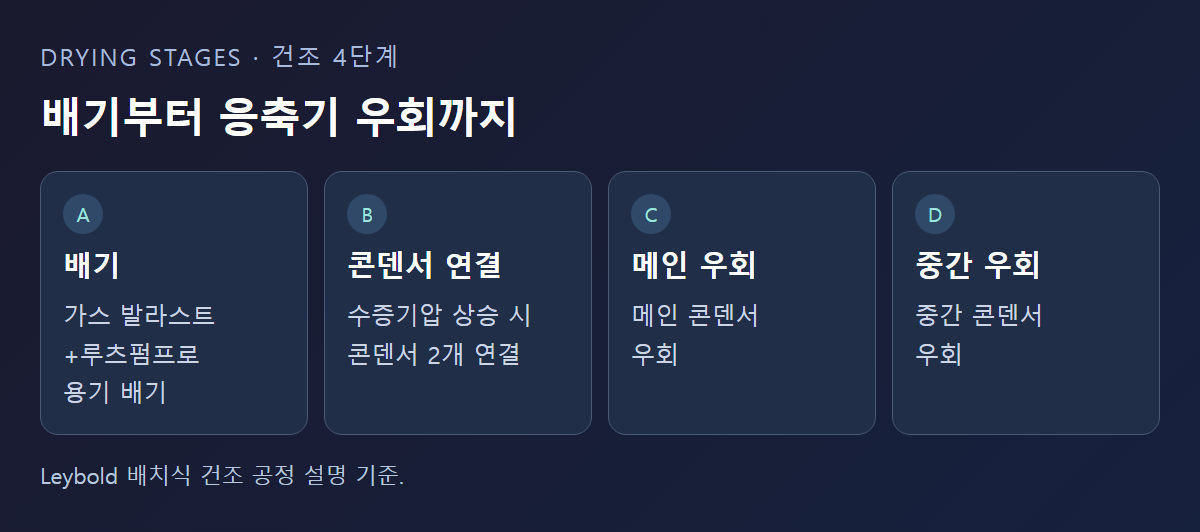
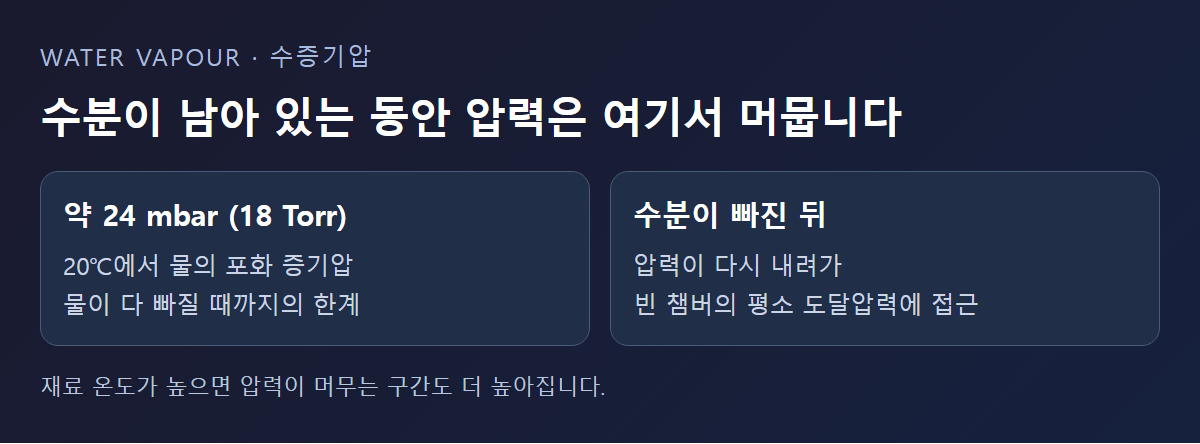
content: 10/22 진공 오븐 글을 Edwards 자료 기준으로 재작성(도식 3장 포함, 미발행)

diff --git a/블로그/output/기술블로그/2026-10/1022-진공오븐-진공도확인/gen_images.py b/블로그/output/기술블로그/2026-10/1022-진공오븐-진공도확인/gen_images.py
@@ -29,24 +29,23 @@ def html(body, extra=""):
     return f'<!doctype html><html lang="ko"><head><meta charset="utf-8"><style>{CSS}{extra}</style></head><body>{body}</body></html>'
 
 STAGES = html("""
-<div id="card"><div class="eyebrow">DRYING STAGES · 건조 4단계</div>
-<h2>배기부터 응축기 우회까지</h2>
-<div class="grid4">
-<div class="box"><div class="n">A</div><h3>배기</h3><p>가스 발라스트+루츠펌프로<br>용기 배기</p></div>
-<div class="box"><div class="n">B</div><h3>콘덴서 연결</h3><p>수증기압 상승 시<br>콘덴서 2개 연결</p></div>
-<div class="box"><div class="n">C</div><h3>메인 우회</h3><p>메인 콘덴서<br>우회</p></div>
-<div class="box"><div class="n">D</div><h3>중간 우회</h3><p>중간 콘덴서<br>우회</p></div>
-</div><div class="note">Leybold 배치식 건조 공정 설명 기준.</div></div>
+<div id="card"><div class="eyebrow">WATER VAPOUR · 수증기압</div>
+<h2>수분이 남아 있는 동안 압력은 여기서 머뭅니다</h2>
+<div class="grid">
+<div class="box"><h3>약 24 mbar (18 Torr)</h3><p>20℃에서 물의 포화 증기압<br>물이 다 빠질 때까지의 한계</p></div>
+<div class="box"><h3>수분이 빠진 뒤</h3><p>압력이 다시 내려가<br>빈 챔버의 평소 도달압력에 접근</p></div>
+</div><div class="note">재료 온도가 높으면 압력이 머무는 구간도 더 높아집니다.</div></div>
 """)
 
 PRESSURE = html("""
-<div id="card"><div class="eyebrow">PRESSURE THRESHOLD · 압력 전환점</div>
-<h2>특정 압력 아래로 떨어지면 구성이 바뀝니다</h2>
-<div class="grid">
-<div class="box"><h3>27 mbar 이하</h3><p>루츠펌프 추가 가동<br>(Leybold 예시)</p></div>
-<div class="box"><h3>약 6.5×10⁻² mbar</h3><p>최종 건조 단계 목표<br>(Leybold 예시)</p></div>
-</div><div class="note">특정 건조 공정 예시 수치이며 모든 설비의 절대 기준은 아닙니다. 로터리베인 펌프 수증기 허용치는 예시 자료 기준 60 mbar.</div></div>
-""")
+<div id="card"><div class="eyebrow">PUMP OPERATION · 펌프 운전</div>
+<h2>수증기를 배기할 때 지킬 세 가지</h2>
+<div class="grid3">
+<div class="box"><div class="n">1</div><h3>미리 데우기</h3><p>흡입구를 닫고 운전<br>보통 최대 60분</p></div>
+<div class="box"><div class="n">2</div><h3>발라스트 열기</h3><p>증기가 지나는 동안<br>계속 열어 둠</p></div>
+<div class="box"><div class="n">3</div><h3>마무리 운전</h3><p>공정 후 흡입구를 막고<br>최소 20~30분</p></div>
+</div><div class="note">오일씰 펌프와 드라이 펌프 모두에 해당합니다.</div></div>
+""", ".grid3 { display:grid; gap:18px; grid-template-columns:repeat(3,1fr); }")
 
 GAUGE = html("""
 <div id="card"><div class="eyebrow">GAUGE LIMIT · 게이지의 한계</div>
@@ -54,7 +53,7 @@ GAUGE = html("""
 <div class="grid">
 <div class="box"><h3>APG200(피라니)</h3><p>측정범위 대기압~5×10⁻⁴ mbar<br>질소 기준 교정</p></div>
 <div class="box"><h3>건조 공정 중</h3><p>수증기 비중이 높아<br>표시값이 실제와 다를 수 있음</p></div>
-</div><div class="note">수증기 전용 보정계수 수치는 확인하지 못했습니다.</div></div>
+</div><div class="note">절댓값이 중요하면 가스 종류와 무관한 정전용량식 게이지를 씁니다.</div></div>
 """)
 
 with sync_playwright() as p:

diff --git a/블로그/output/기술블로그/2026-10/1022-진공오븐-진공도확인/final.md b/블로그/output/기술블로그/2026-10/1022-진공오븐-진공도확인/final.md
@@ -2,56 +2,60 @@
 category: 기술문의
 ---
 
-<!-- 수치검증: A항목 4개 확인(27 mbar·6.5e-2 mbar·60 mbar·0.65 mbar, 모두 Leybold 특정 예시로 명시) / B항목 0개(해당없음) / C항목 1개 확인(APG200=피라니, product_master_table 대조) / D항목 0개(해당없음) / 삭제 1개(수증기 전용 보정계수 수치, 근거 없음) / 교체 0개 -->
+<!-- 수치검증: A항목 4개 확인(물 포화 증기압 약 24 mbar@20℃·워밍업 최대 60분·공정 후 20~30분 운전 = Edwards 자료 2건 / APG200 측정범위 = product_master_table) / B항목 0개(해당없음) / C항목 2개 확인(APG200=피라니, Barocel=정전용량식 — 대표님 취급 확인 10/9) / D항목 0개(해당없음) / 삭제 4개(27 mbar·6.5e-2 mbar·60 mbar·0.65 mbar — 타사 자료 예시, 10/9 출처 규칙) / 교체 0개 -->
 
 # 진공 오븐 건조 공정, 진공도는 어떻게 확인할까
 
-![건조 단계별로 확인하는 압력 기준](./images/thumbnail.png)
+![건조 중 압력이 머무는 구간과 확인 기준](./images/thumbnail.png)
 
-진공 오븐을 돌릴 때 "지금 잘 되고 있는지" 여부를 무엇으로 판단해야 할지 막막할 때가 있다. 온도만 보고 있으면 안이 얼마나 말랐는지 알기 어렵고, 진공도만 보고 있으면 실제로 무엇을 확인하는 건지 헷갈리기 쉽다. 이 글은 Leybold의 공식 자료를 기준으로, 건조 공정에서 진공도가 어떤 의미를 갖고 어떻게 확인해야 하는지를 정리한다.
+진공 오븐을 돌릴 때 "지금 잘 되고 있는지"를 무엇으로 판단해야 할지 막막할 때가 있다. 온도만 보고 있으면 안이 얼마나 말랐는지 알기 어렵고, 진공도만 보고 있으면 그 숫자가 무엇을 뜻하는지 헷갈리기 쉽다. 이 글은 건조 중 진공도가 어떻게 움직이는지, 그 숫자로 무엇을 판단할 수 있는지, 펌프와 게이지는 어떻게 다뤄야 하는지를 차례로 정리한다.
 
-## 건조는 여러 단계로 나뉜다
+## 건조 중에는 압력이 한동안 내려가지 않는다
 
-![배기부터 응축기 전환까지 이어지는 건조 단계](./images/사진1.png)
+![수분이 남아 있는 동안 압력이 머무는 구간](./images/사진1.png)
 
-스마텍이 Leybold 자료(How does the drying process work with a vacuum pump system, https://www.leybold.com/en-us/knowledge/vacuum-fundamentals/vacuum-generation/how-does-the-drying-process-work)를 확인한 결과, 배치식 진공 건조 공정은 네 단계로 나뉜다. 가스 발라스트 펌프와 루츠펌프로 용기를 배기하는 단계, 재료를 가열하며 수증기압이 올라가면 콘덴서(응축기) 두 개를 연결하는 단계, 그다음 메인 콘덴서를 우회하는 단계, 마지막으로 중간 콘덴서를 우회하는 단계다. 수분 함량은 시간이 지날수록 점점 느리게 줄어드는 경향을 보인다.
+젖은 재료를 넣고 배기를 시작하면 압력이 빠르게 떨어지다가 어느 지점에서 멈춘 것처럼 보인다. 펌프가 약해져서가 아니다. 스마텍이 Edwards 자료(Why gas ballast is important on oil sealed rotary vane pumps?, https://www.edwardsvacuum.com/en/knowledge/applications/why-gas-ballast-is-important-on-oil-sealed-rotary-vane-pumps)를 확인한 결과, 물의 포화 증기압은 20℃에서 약 24 mbar(18 Torr)이며, 물이 모두 빠져나갈 때까지는 이 값이 펌프가 도달할 수 있는 가장 낮은 압력으로 확인된다.
 
-## 압력이 특정 값 아래로 떨어지면 펌프 구성이 바뀐다
+증기를 배기하는 동안의 도달압력은 펌프 자체의 성능이 아니라 처리하는 물질의 증기압이 결정한다는 뜻이다. 재료에서 수분이 계속 나오는 동안에는 아무리 좋은 펌프를 달아도 압력이 그 아래로 잘 내려가지 않는다. 오븐을 가열해 재료 온도가 올라가면 물의 증기압도 함께 높아지므로, 압력이 머무는 구간은 상온일 때보다 더 높은 곳에 생긴다.
 
-![수분 압력에 따라 펌프 구성이 전환되는 지점](./images/사진2.png)
+## 그래서 진공도는 건조가 끝났는지를 알려 준다
 
-스마텍이 Leybold 자료(How to select a vacuum pump for drying applications, https://www.leybold.com/en-in/knowledge/vacuum-fundamentals/vacuum-generation/pump-selection-for-drying-process)를 확인한 결과, 한 건조 공정 예시에서는 챔버 내 수분 압력이 27 mbar 아래로 떨어지면 루츠펌프를 추가로 가동하고 최종 건조 단계에서는 약 6.5×10⁻² mbar까지 압력을 더 낮추는 것으로 확인된다. 이 수치는 특정 건조 공정 예시에 나온 값이며, 모든 진공 오븐에 그대로 적용되는 절대 기준은 아니다. 자신의 설비가 어느 압력대에서 어떻게 반응하는지는 실제 운전 이력으로 직접 확인해야 한다.
+압력이 한 구간에 머물러 있다는 것은 재료에서 아직 수분이 나오고 있다는 신호다. 수분이 줄어들면 압력은 다시 내려가기 시작하고, 수분이 거의 다 빠지면 그 오븐과 펌프가 평소 빈 상태에서 도달하던 압력에 가까워진다.
 
-로터리베인(오일) 펌프를 백킹 펌프로 쓸 때는 그 펌프의 수증기 허용치(예시 자료에서는 60 mbar)를 넘지 않도록 앞단의 루츠펌프가 수증기압을 먼저 낮춰줘야 한다. 가스 발라스트를 쓰는 백킹 펌프는 수증기압이 약 0.65 mbar에 이를 때까지 루츠펌프와 함께 배기를 담당한다는 예시도 있다.
+그래서 진공도를 볼 때는 숫자 하나보다 흐름을 본다. 압력이 머물던 구간을 벗어나 다시 내려가기 시작한 시점, 그리고 빈 챔버의 평소 도달압력에 얼마나 가까워졌는지가 건조 진행을 판단하는 기준이 된다. 이 판단을 하려면 빈 챔버를 배기했을 때의 도달압력과 걸린 시간을 미리 한 번 기록해 두어야 한다.
 
-## 최신 드라이펌프는 조금 다르게 대응한다
+## 펌프가 수증기를 감당하게 하려면
 
-최신 드라이(오일 없는) 펌프 기술에서는 순간적으로 펌프의 수증기 허용치를 넘어서도, 그 수분이 펌프 안에서 잠깐 응축됐다가 다시 배출되는 방식으로 처리된다. 이 덕분에 복잡한 압력 조절 장치 없이도 운전할 수 있다는 것이 Leybold의 설명이다.
+![수증기를 배기할 때 지킬 세 가지 운전 순서](./images/사진2.png)
 
-## 진공도는 결국 게이지로 확인한다
+건조 공정에서 펌프는 공기보다 수증기를 훨씬 많이 배기한다. 수증기가 펌프 안에서 물로 응축되면 도달압력을 회복하는 시간이 크게 늘어나고, 오일씰 펌프는 오일이 빠르게 나빠진다. 스마텍이 Edwards 자료(How to pump condensable vapours?, https://www.edwardsvacuum.com/en-us/vacuum-pumps/knowledge/applications/how-to-pump-condensable-vapours)를 확인한 결과, 응축을 막는 운전 순서는 세 가지로 확인된다.
 
-![APG200 피라니 게이지로 압력 구간을 확인하는 방식](./images/사진3.png)
+1. 수증기를 받기 전에 펌프를 정상 운전 온도까지 데운다. 흡입구 밸브를 닫고 돌리면 되며, 보통 최대 60분이 걸린다.
+2. 증기가 펌프를 지나는 동안에는 가스 발라스트를 계속 열어 둔다.
+3. 공정이 끝난 뒤에도 흡입구를 막은 채 최소 20~30분 더 운전해 남은 증기를 내보낸다.
 
-앞서 설명한 27 mbar, 6.5×10⁻² mbar 같은 기준값은 실제로는 게이지 눈금을 직접 읽어 확인한다. 스마텍이 취급하는 저진공 게이지 APG200(피라니 방식, 측정범위 대기압~5×10⁻⁴ mbar)은 이 정도 범위는 충분히 커버한다.
+이 순서는 오일씰 펌프와 드라이 펌프 모두에 해당한다. 가스 발라스트를 오래 열어 두는 오일씰 펌프라면 배기 쪽으로 넘어가는 오일을 오일 박스로 되돌려 주는 부속을 함께 다는 것이 좋다.
 
-다만 앞서 다룬 "수소 설비 진공게이지" 글에서 설명했듯, 피라니 게이지는 가스 종류에 따라 표시값이 달라지는 방식이다. 건조 공정 중에는 챔버 안 수증기 비중이 높아지므로, 질소 기준으로 교정된 게이지가 실제 수증기압을 그대로 정확히 보여주지 못할 수 있다는 점도 감안해야 한다. 수증기 전용 보정계수 수치는 이번 조사에서 확인하지 못했다.
+## 진공도는 게이지로 확인한다
 
-## 압력계만으로 판단하기 애매할 때
+![피라니 게이지로 건조 압력을 읽을 때의 한계](./images/사진3.png)
 
-장시간 진행하는 건조 공정에서는 응축수 수집기를 콘덴서에서 차단해 두는 방법도 쓰인다. 이렇게 하면 냉각관에 남아 있던 응축막만 다시 증발하게 되는데, 이 재증발은 가스 발라스트 펌프 크기에 따라 30~60분 안에 끝난다는 것이 Leybold의 설명이다. 이는 압력계만으로 건조 완료 여부를 판단하기 애매할 때 참고할 수 있는 보조적인 시간 기준이며, 모든 설비에 그대로 적용되는 고정값은 아니다.
+건조 중 압력은 게이지 눈금으로 읽는다. 스마텍이 취급하는 저진공 게이지 APG200(피라니 방식, 측정범위 대기압~5×10⁻⁴ mbar)은 건조 공정에서 보는 압력 범위를 충분히 덮는다.
 
-게이지를 챔버 어디에 다는지도 결과에 영향을 준다. 배기구 바로 앞에 달면 실제 챔버 안 압력보다 낮게 표시될 수 있고, 재료에서 먼 위치에 달면 국소적으로 압력이 높은 지점을 놓칠 수 있다. 여러 지점에 게이지를 달아 비교하기 어려운 소형 오븐이라면, 최소한 게이지 위치를 매번 동일하게 유지해 기록 간 비교가 가능하도록 하는 것이 중요하다. 위치를 바꾸면 이전 기록과 단순 비교가 어려워진다.
+다만 "수소 설비 진공게이지" 글에서 설명했듯, 피라니 게이지는 가스 종류에 따라 표시값이 달라지는 방식이다. 건조 중에는 챔버 안 기체의 대부분이 수증기이므로, 질소 기준으로 맞춰진 게이지의 표시값이 실제 압력과 다를 수 있다. 같은 오븐에서 같은 게이지로 기록을 비교하는 데는 문제가 없지만, 압력의 절댓값이 중요한 공정이라면 가스 종류와 무관하게 측정하는 정전용량식 게이지(Edwards Barocel)를 쓰는 편이 맞다.
+
+게이지를 챔버 어디에 다는지도 결과에 영향을 준다. 배기구 바로 앞에 달면 실제 챔버 안 압력보다 낮게 표시될 수 있고, 재료에서 먼 위치에 달면 국소적으로 압력이 높은 지점을 놓칠 수 있다. 여러 지점에 게이지를 달기 어려운 소형 오븐이라면, 게이지 위치를 매번 같게 유지해 기록끼리 비교할 수 있게 하는 것이 중요하다.
 
 ## 압력이 안 내려가면 어떻게 봐야 할까
 
-건조 초반에는 압력이 빠르게 떨어지다가, 어느 시점부터 정체되는 구간이 생긴다. 이 정체는 대개 재료 표면과 내부에서 계속 수분이 빠져나오고 있다는 신호이지, 펌프나 게이지의 이상이 아닌 경우가 많다. 압력이 완만하게 계속 낮아지고 있다면 정상적인 건조 진행으로 보아도 무방하다. 문제는 이 정체가 정상적인 건조 진행인지, 아니면 누설이나 펌프 성능 저하 때문인지 구분하기 어렵다는 점이다. 이럴 때는 같은 재료·같은 조건으로 이전에 돌렸던 압력 기록과 비교해 보는 것이 가장 실질적인 판단 방법이다. 처음 돌리는 재료라면 시간대별 압력을 기록해 두고, 다음번 같은 재료를 건조할 때 비교 기준으로 삼는 것이 좋다. 재료 종류나 투입량이 달라지면 기준값도 함께 달라지므로 기록은 조건별로 구분해 남긴다.
+압력이 머무는 것 자체는 건조 공정의 정상적인 모습이다. 문제는 이 정체가 수분 때문인지, 누설이나 펌프 성능 저하 때문인지 구분하기 어렵다는 점이다. 이럴 때는 같은 재료를 같은 조건으로 돌렸던 이전 기록과 비교하는 것이 가장 실질적인 방법이다. 평소보다 훨씬 오래 머문다면 재료의 수분량이 달라졌는지부터 보고, 빈 챔버로 돌려도 평소 도달압력이 나오지 않는다면 누설이나 펌프 쪽을 의심한다.
 
 ## 건조 온도와 진공도는 같이 움직인다
 
-재료를 가열하면 표면 온도가 올라가면서 수증기압이 함께 올라가고, 이 때문에 챔버 전체 압력도 일시적으로 오를 수 있다. 이 상승을 이상 신호로 오해하지 않으려면, 가열 시작 시점과 압력 변화 시점을 함께 기록해 두는 것이 도움이 된다. 온도 프로파일과 압력 그래프를 나란히 놓고 보면 두 값이 언제 함께 움직이는지 훨씬 쉽게 확인할 수 있다. Leybold가 설명하는 콘덴서 전환 단계도 결국 이 수증기압 상승에 대응하기 위한 절차다.
+재료를 가열하면 표면 온도가 올라가면서 수증기압이 함께 올라가고, 챔버 압력도 일시적으로 오를 수 있다. 이 상승을 이상 신호로 오해하지 않으려면 가열 시작 시점과 압력 변화 시점을 함께 기록해 둔다. 온도 기록과 압력 기록을 나란히 놓고 보면 두 값이 언제 함께 움직이는지 쉽게 확인할 수 있다.
 
-진공 오븐을 운전하고 계신다면 지금 어느 압력대에서 반응이 느려지는지, 그 지점에서 게이지 방식이 수증기를 정확히 읽고 있는지부터 확인해 보는 것이 첫 단계다.
+진공 오븐을 운전하고 있다면 빈 챔버의 평소 도달압력, 건조 중 압력이 머무는 구간, 그 구간을 벗어나는 데 걸리는 시간부터 기록해 보는 것이 첫 단계다.
 
 ---
 
-건조 공정 압력 구간별 게이지·펌프 구성, 진공 오븐 신규 도입·교체 상담 가능.
+건조 공정에 맞는 펌프·게이지 구성, 진공 오븐 펌프 신규 도입·교체 상담 가능.

diff --git a/블로그/output/기술블로그/2026-10/1022-진공오븐-진공도확인/google.md b/블로그/output/기술블로그/2026-10/1022-진공오븐-진공도확인/google.md
@@ -2,56 +2,60 @@
 category: 기술문의
 ---
 
-<!-- 수치검증: A항목 4개 확인(27 mbar·6.5e-2 mbar·60 mbar·0.65 mbar, 모두 Leybold 특정 예시로 명시) / B항목 0개(해당없음) / C항목 1개 확인(APG200=피라니, product_master_table 대조) / D항목 0개(해당없음) / 삭제 1개(수증기 전용 보정계수 수치, 근거 없음) / 교체 0개 -->
+<!-- 수치검증: A항목 4개 확인(물 포화 증기압 약 24 mbar@20℃·워밍업 최대 60분·공정 후 20~30분 운전 = Edwards 자료 2건 / APG200 측정범위 = product_master_table) / B항목 0개(해당없음) / C항목 2개 확인(APG200=피라니, Barocel=정전용량식 — 대표님 취급 확인 10/9) / D항목 0개(해당없음) / 삭제 4개(27 mbar·6.5e-2 mbar·60 mbar·0.65 mbar — 타사 자료 예시, 10/9 출처 규칙) / 교체 0개 -->
 
 # 진공 오븐 건조 공정, 진공도는 어떻게 확인할까
 
-![건조 단계별로 확인하는 압력 기준](./images/thumbnail.png)
+![건조 중 압력이 머무는 구간과 확인 기준](./images/thumbnail.png)
 
-진공 오븐을 돌릴 때 "지금 잘 되고 있는지" 여부를 무엇으로 판단해야 할지 막막할 때가 있다. 온도만 보고 있으면 안이 얼마나 말랐는지 알기 어렵고, 진공도만 보고 있으면 실제로 무엇을 확인하는 건지 헷갈리기 쉽다. 이 글은 Leybold의 공식 자료를 기준으로, 건조 공정에서 진공도가 어떤 의미를 갖고 어떻게 확인해야 하는지를 정리한다.
+진공 오븐을 돌릴 때 "지금 잘 되고 있는지"를 무엇으로 판단해야 할지 막막할 때가 있다. 온도만 보고 있으면 안이 얼마나 말랐는지 알기 어렵고, 진공도만 보고 있으면 그 숫자가 무엇을 뜻하는지 헷갈리기 쉽다. 이 글은 건조 중 진공도가 어떻게 움직이는지, 그 숫자로 무엇을 판단할 수 있는지, 펌프와 게이지는 어떻게 다뤄야 하는지를 차례로 정리한다.
 
-## 건조는 여러 단계로 나뉜다
+## 건조 중에는 압력이 한동안 내려가지 않는다
 
-![배기부터 응축기 전환까지 이어지는 건조 단계](./images/사진1.png)
+![수분이 남아 있는 동안 압력이 머무는 구간](./images/사진1.png)
 
-스마텍이 Leybold 자료(How does the drying process work with a vacuum pump system, https://www.leybold.com/en-us/knowledge/vacuum-fundamentals/vacuum-generation/how-does-the-drying-process-work)를 확인한 결과, 배치식 진공 건조 공정은 네 단계로 나뉜다. 가스 발라스트 펌프와 루츠펌프로 용기를 배기하는 단계, 재료를 가열하며 수증기압이 올라가면 콘덴서(응축기) 두 개를 연결하는 단계, 그다음 메인 콘덴서를 우회하는 단계, 마지막으로 중간 콘덴서를 우회하는 단계다. 수분 함량은 시간이 지날수록 점점 느리게 줄어드는 경향을 보인다.
+젖은 재료를 넣고 배기를 시작하면 압력이 빠르게 떨어지다가 어느 지점에서 멈춘 것처럼 보인다. 펌프가 약해져서가 아니다. 스마텍이 Edwards 자료(Why gas ballast is important on oil sealed rotary vane pumps?, https://www.edwardsvacuum.com/en/knowledge/applications/why-gas-ballast-is-important-on-oil-sealed-rotary-vane-pumps)를 확인한 결과, 물의 포화 증기압은 20℃에서 약 24 mbar(18 Torr)이며, 물이 모두 빠져나갈 때까지는 이 값이 펌프가 도달할 수 있는 가장 낮은 압력으로 확인된다.
 
-## 압력이 특정 값 아래로 떨어지면 펌프 구성이 바뀐다
+증기를 배기하는 동안의 도달압력은 펌프 자체의 성능이 아니라 처리하는 물질의 증기압이 결정한다는 뜻이다. 재료에서 수분이 계속 나오는 동안에는 아무리 좋은 펌프를 달아도 압력이 그 아래로 잘 내려가지 않는다. 오븐을 가열해 재료 온도가 올라가면 물의 증기압도 함께 높아지므로, 압력이 머무는 구간은 상온일 때보다 더 높은 곳에 생긴다.
 
-![수분 압력에 따라 펌프 구성이 전환되는 지점](./images/사진2.png)
+## 그래서 진공도는 건조가 끝났는지를 알려 준다
 
-스마텍이 Leybold 자료(How to select a vacuum pump for drying applications, https://www.leybold.com/en-in/knowledge/vacuum-fundamentals/vacuum-generation/pump-selection-for-drying-process)를 확인한 결과, 한 건조 공정 예시에서는 챔버 내 수분 압력이 27 mbar 아래로 떨어지면 루츠펌프를 추가로 가동하고 최종 건조 단계에서는 약 6.5×10⁻² mbar까지 압력을 더 낮추는 것으로 확인된다. 이 수치는 특정 건조 공정 예시에 나온 값이며, 모든 진공 오븐에 그대로 적용되는 절대 기준은 아니다. 자신의 설비가 어느 압력대에서 어떻게 반응하는지는 실제 운전 이력으로 직접 확인해야 한다.
+압력이 한 구간에 머물러 있다는 것은 재료에서 아직 수분이 나오고 있다는 신호다. 수분이 줄어들면 압력은 다시 내려가기 시작하고, 수분이 거의 다 빠지면 그 오븐과 펌프가 평소 빈 상태에서 도달하던 압력에 가까워진다.
 
-로터리베인(오일) 펌프를 백킹 펌프로 쓸 때는 그 펌프의 수증기 허용치(예시 자료에서는 60 mbar)를 넘지 않도록 앞단의 루츠펌프가 수증기압을 먼저 낮춰줘야 한다. 가스 발라스트를 쓰는 백킹 펌프는 수증기압이 약 0.65 mbar에 이를 때까지 루츠펌프와 함께 배기를 담당한다는 예시도 있다.
+그래서 진공도를 볼 때는 숫자 하나보다 흐름을 본다. 압력이 머물던 구간을 벗어나 다시 내려가기 시작한 시점, 그리고 빈 챔버의 평소 도달압력에 얼마나 가까워졌는지가 건조 진행을 판단하는 기준이 된다. 이 판단을 하려면 빈 챔버를 배기했을 때의 도달압력과 걸린 시간을 미리 한 번 기록해 두어야 한다.
 
-## 최신 드라이펌프는 조금 다르게 대응한다
+## 펌프가 수증기를 감당하게 하려면
 
-최신 드라이(오일 없는) 펌프 기술에서는 순간적으로 펌프의 수증기 허용치를 넘어서도, 그 수분이 펌프 안에서 잠깐 응축됐다가 다시 배출되는 방식으로 처리된다. 이 덕분에 복잡한 압력 조절 장치 없이도 운전할 수 있다는 것이 Leybold의 설명이다.
+![수증기를 배기할 때 지킬 세 가지 운전 순서](./images/사진2.png)
 
-## 진공도는 결국 게이지로 확인한다
+건조 공정에서 펌프는 공기보다 수증기를 훨씬 많이 배기한다. 수증기가 펌프 안에서 물로 응축되면 도달압력을 회복하는 시간이 크게 늘어나고, 오일씰 펌프는 오일이 빠르게 나빠진다. 스마텍이 Edwards 자료(How to pump condensable vapours?, https://www.edwardsvacuum.com/en-us/vacuum-pumps/knowledge/applications/how-to-pump-condensable-vapours)를 확인한 결과, 응축을 막는 운전 순서는 세 가지로 확인된다.
 
-![APG200 피라니 게이지로 압력 구간을 확인하는 방식](./images/사진3.png)
+1. 수증기를 받기 전에 펌프를 정상 운전 온도까지 데운다. 흡입구 밸브를 닫고 돌리면 되며, 보통 최대 60분이 걸린다.
+2. 증기가 펌프를 지나는 동안에는 가스 발라스트를 계속 열어 둔다.
+3. 공정이 끝난 뒤에도 흡입구를 막은 채 최소 20~30분 더 운전해 남은 증기를 내보낸다.
 
-앞서 설명한 27 mbar, 6.5×10⁻² mbar 같은 기준값은 실제로는 게이지 눈금을 직접 읽어 확인한다. 스마텍이 취급하는 저진공 게이지 APG200(피라니 방식, 측정범위 대기압~5×10⁻⁴ mbar)은 이 정도 범위는 충분히 커버한다.
+이 순서는 오일씰 펌프와 드라이 펌프 모두에 해당한다. 가스 발라스트를 오래 열어 두는 오일씰 펌프라면 배기 쪽으로 넘어가는 오일을 오일 박스로 되돌려 주는 부속을 함께 다는 것이 좋다.
 
-다만 앞서 다룬 "수소 설비 진공게이지" 글에서 설명했듯, 피라니 게이지는 가스 종류에 따라 표시값이 달라지는 방식이다. 건조 공정 중에는 챔버 안 수증기 비중이 높아지므로, 질소 기준으로 교정된 게이지가 실제 수증기압을 그대로 정확히 보여주지 못할 수 있다는 점도 감안해야 한다. 수증기 전용 보정계수 수치는 이번 조사에서 확인하지 못했다.
+## 진공도는 게이지로 확인한다
 
-## 압력계만으로 판단하기 애매할 때
+![피라니 게이지로 건조 압력을 읽을 때의 한계](./images/사진3.png)
 
-장시간 진행하는 건조 공정에서는 응축수 수집기를 콘덴서에서 차단해 두는 방법도 쓰인다. 이렇게 하면 냉각관에 남아 있던 응축막만 다시 증발하게 되는데, 이 재증발은 가스 발라스트 펌프 크기에 따라 30~60분 안에 끝난다는 것이 Leybold의 설명이다. 이는 압력계만으로 건조 완료 여부를 판단하기 애매할 때 참고할 수 있는 보조적인 시간 기준이며, 모든 설비에 그대로 적용되는 고정값은 아니다.
+건조 중 압력은 게이지 눈금으로 읽는다. 스마텍이 취급하는 저진공 게이지 APG200(피라니 방식, 측정범위 대기압~5×10⁻⁴ mbar)은 건조 공정에서 보는 압력 범위를 충분히 덮는다.
 
-게이지를 챔버 어디에 다는지도 결과에 영향을 준다. 배기구 바로 앞에 달면 실제 챔버 안 압력보다 낮게 표시될 수 있고, 재료에서 먼 위치에 달면 국소적으로 압력이 높은 지점을 놓칠 수 있다. 여러 지점에 게이지를 달아 비교하기 어려운 소형 오븐이라면, 최소한 게이지 위치를 매번 동일하게 유지해 기록 간 비교가 가능하도록 하는 것이 중요하다. 위치를 바꾸면 이전 기록과 단순 비교가 어려워진다.
+다만 "수소 설비 진공게이지" 글에서 설명했듯, 피라니 게이지는 가스 종류에 따라 표시값이 달라지는 방식이다. 건조 중에는 챔버 안 기체의 대부분이 수증기이므로, 질소 기준으로 맞춰진 게이지의 표시값이 실제 압력과 다를 수 있다. 같은 오븐에서 같은 게이지로 기록을 비교하는 데는 문제가 없지만, 압력의 절댓값이 중요한 공정이라면 가스 종류와 무관하게 측정하는 정전용량식 게이지(Edwards Barocel)를 쓰는 편이 맞다.
+
+게이지를 챔버 어디에 다는지도 결과에 영향을 준다. 배기구 바로 앞에 달면 실제 챔버 안 압력보다 낮게 표시될 수 있고, 재료에서 먼 위치에 달면 국소적으로 압력이 높은 지점을 놓칠 수 있다. 여러 지점에 게이지를 달기 어려운 소형 오븐이라면, 게이지 위치를 매번 같게 유지해 기록끼리 비교할 수 있게 하는 것이 중요하다.
 
 ## 압력이 안 내려가면 어떻게 봐야 할까
 
-건조 초반에는 압력이 빠르게 떨어지다가, 어느 시점부터 정체되는 구간이 생긴다. 이 정체는 대개 재료 표면과 내부에서 계속 수분이 빠져나오고 있다는 신호이지, 펌프나 게이지의 이상이 아닌 경우가 많다. 압력이 완만하게 계속 낮아지고 있다면 정상적인 건조 진행으로 보아도 무방하다. 문제는 이 정체가 정상적인 건조 진행인지, 아니면 누설이나 펌프 성능 저하 때문인지 구분하기 어렵다는 점이다. 이럴 때는 같은 재료·같은 조건으로 이전에 돌렸던 압력 기록과 비교해 보는 것이 가장 실질적인 판단 방법이다. 처음 돌리는 재료라면 시간대별 압력을 기록해 두고, 다음번 같은 재료를 건조할 때 비교 기준으로 삼는 것이 좋다. 재료 종류나 투입량이 달라지면 기준값도 함께 달라지므로 기록은 조건별로 구분해 남긴다.
+압력이 머무는 것 자체는 건조 공정의 정상적인 모습이다. 문제는 이 정체가 수분 때문인지, 누설이나 펌프 성능 저하 때문인지 구분하기 어렵다는 점이다. 이럴 때는 같은 재료를 같은 조건으로 돌렸던 이전 기록과 비교하는 것이 가장 실질적인 방법이다. 평소보다 훨씬 오래 머문다면 재료의 수분량이 달라졌는지부터 보고, 빈 챔버로 돌려도 평소 도달압력이 나오지 않는다면 누설이나 펌프 쪽을 의심한다.
 
 ## 건조 온도와 진공도는 같이 움직인다
 
-재료를 가열하면 표면 온도가 올라가면서 수증기압이 함께 올라가고, 이 때문에 챔버 전체 압력도 일시적으로 오를 수 있다. 이 상승을 이상 신호로 오해하지 않으려면, 가열 시작 시점과 압력 변화 시점을 함께 기록해 두는 것이 도움이 된다. 온도 프로파일과 압력 그래프를 나란히 놓고 보면 두 값이 언제 함께 움직이는지 훨씬 쉽게 확인할 수 있다. Leybold가 설명하는 콘덴서 전환 단계도 결국 이 수증기압 상승에 대응하기 위한 절차다.
+재료를 가열하면 표면 온도가 올라가면서 수증기압이 함께 올라가고, 챔버 압력도 일시적으로 오를 수 있다. 이 상승을 이상 신호로 오해하지 않으려면 가열 시작 시점과 압력 변화 시점을 함께 기록해 둔다. 온도 기록과 압력 기록을 나란히 놓고 보면 두 값이 언제 함께 움직이는지 쉽게 확인할 수 있다.
 
-진공 오븐을 운전하고 계신다면 지금 어느 압력대에서 반응이 느려지는지, 그 지점에서 게이지 방식이 수증기를 정확히 읽고 있는지부터 확인해 보는 것이 첫 단계다.
+진공 오븐을 운전하고 있다면 빈 챔버의 평소 도달압력, 건조 중 압력이 머무는 구간, 그 구간을 벗어나는 데 걸리는 시간부터 기록해 보는 것이 첫 단계다.
 
 ---
 
-건조 공정 압력 구간별 게이지·펌프 구성, 진공 오븐 신규 도입·교체 상담 가능.
+건조 공정에 맞는 펌프·게이지 구성, 진공 오븐 펌프 신규 도입·교체 상담 가능.

diff --git a/블로그/output/기술블로그/2026-10/1022-진공오븐-진공도확인/naver.md b/블로그/output/기술블로그/2026-10/1022-진공오븐-진공도확인/naver.md
@@ -1,57 +1,56 @@
-<!-- 수치검증: A항목 4개 확인 / B항목 0개 / C항목 1개 확인 / D항목 0개 / 삭제 1개 / 교체 0개 -->
+<!-- 수치검증: A항목 4개 확인 / B항목 0개 / C항목 2개 확인 / D항목 0개 / 삭제 4개 / 교체 0개 -->
 
 # 진공 오븐 건조, 지금 잘 되고 있는지 어떻게 확인하나요?
 
-진공 오븐을 돌릴 때 "지금 잘 되고 있는지" 여부를 무엇으로 판단해야 할지 막막할 때가 있으실 겁니다. 온도만 보고 있으면 안이 얼마나 말랐는지 알기 어렵고, 진공도만 보고 있으면 실제로 무엇을 확인하는 건지 헷갈리기 쉽습니다. 오늘은 Leybold 공식 자료를 기준으로, 건조 공정에서 진공도가 어떤 의미를 갖고 어떻게 확인해야 하는지 정리해 드리겠습니다.
+진공 오븐을 돌리다 보면 압력이 어느 순간부터 더 내려가지 않아서 "펌프가 약해졌나?" 하고 걱정하실 때가 있습니다. 대부분은 고장이 아니라 건조가 진행 중이라는 신호입니다. 오늘은 그 숫자를 어떻게 읽어야 하는지, 펌프와 게이지는 어떻게 다뤄야 하는지 정리해 드리겠습니다.
 
 [THUMBNAIL]
 
-## 건조는 여러 단계로 나뉩니다
+## 압력이 멈춘 것처럼 보이는 이유
 
-스마텍이 Leybold 자료를 확인한 결과, 배치식 진공 건조 공정은 네 단계로 나뉩니다. 가스 발라스트 펌프와 루츠펌프로 용기를 배기하는 단계, 재료를 가열하며 수증기압이 올라가면 콘덴서(응축기) 두 개를 연결하는 단계, 그다음 메인 콘덴서를 우회하는 단계, 마지막으로 중간 콘덴서를 우회하는 단계입니다. 수분 함량은 시간이 지날수록 점점 느리게 줄어드는 경향을 보인다고도 설명합니다.
+젖은 재료를 넣고 배기하면 압력이 빠르게 떨어지다가 어느 지점에서 머뭅니다. 스마텍이 Edwards 자료를 확인한 결과, 물의 포화 증기압은 20℃에서 약 24 mbar(18 Torr)이며, 물이 모두 빠져나갈 때까지는 이 값이 펌프가 도달할 수 있는 가장 낮은 압력으로 확인됩니다.
 
-[IMAGE: 배기부터 응축기 전환까지 이어지는 건조 단계]
+즉 수증기를 빼는 동안의 도달압력은 펌프 성능이 아니라 물의 증기압이 정합니다. 오븐을 가열해 재료 온도가 올라가면 물의 증기압도 높아지기 때문에, 압력이 머무는 구간은 상온일 때보다 더 높은 곳에 생깁니다.
 
-## 압력이 특정 값 아래로 떨어지면 펌프 구성이 바뀝니다
+[IMAGE: 수분이 남아 있는 동안 압력이 머무는 구간]
 
-Leybold의 한 건조 공정 예시에서는, 챔버 내 수분 압력이 27 mbar 아래로 떨어지면 루츠펌프를 추가로 가동합니다. 최종 건조 단계에서는 약 6.5×10⁻² mbar까지 압력을 더 낮춥니다. 이 수치는 특정 건조 공정 예시에 나온 값이며, 모든 진공 오븐에 그대로 적용되는 절대 기준은 아닙니다. 자신의 설비가 어느 압력대에서 어떻게 반응하는지는 실제 운전 이력으로 직접 확인하셔야 합니다.
+## 건조가 끝났는지는 이렇게 봅니다
 
-로터리베인(오일) 펌프를 백킹 펌프로 쓸 때는 그 펌프의 수증기 허용치(예시 자료에서는 60 mbar)를 넘지 않도록 앞단의 루츠펌프가 수증기압을 먼저 낮춰줘야 합니다. 가스 발라스트를 쓰는 백킹 펌프는 수증기압이 약 0.65 mbar에 이를 때까지 루츠펌프와 함께 배기를 담당한다는 예시도 있습니다.
+압력이 머물러 있는 동안은 재료에서 아직 수분이 나오는 중입니다. 수분이 줄면 압력이 다시 내려가기 시작하고, 거의 다 빠지면 그 오븐이 빈 상태에서 평소 도달하던 압력에 가까워집니다.
 
-[IMAGE: 수분 압력에 따라 펌프 구성이 전환되는 지점]
+그래서 숫자 하나보다 흐름을 보시는 것이 좋습니다. 압력이 머물던 구간을 벗어난 시점과, 빈 챔버의 평소 도달압력에 얼마나 가까워졌는지가 기준입니다. 이 비교를 하시려면 빈 챔버를 배기했을 때의 도달압력과 걸린 시간을 한 번 기록해 두셔야 합니다.
 
-## 최신 드라이펌프는 조금 다르게 대응합니다
+## 펌프가 수증기를 감당하게 하는 세 가지
 
-최신 드라이(오일 없는) 펌프 기술에서는 순간적으로 펌프의 수증기 허용치를 넘어서도, 그 수분이 펌프 안에서 잠깐 응축됐다가 다시 배출되는 방식으로 처리됩니다. 이 덕분에 복잡한 압력 조절 장치 없이도 운전할 수 있다는 것이 Leybold의 설명입니다.
+건조 공정에서 펌프는 수증기를 아주 많이 배기합니다. 수증기가 펌프 안에서 물로 응축되면 도달압력을 회복하는 시간이 크게 늘어나고, 오일씰 펌프는 오일이 빨리 나빠집니다. 스마텍이 Edwards 자료를 확인한 결과, 응축을 막는 운전 순서는 세 가지로 확인됩니다.
 
-## 진공도는 결국 게이지로 확인합니다
+1. 수증기를 받기 전에 흡입구 밸브를 닫고 펌프를 데웁니다. 보통 최대 60분이 걸립니다.
+2. 증기가 지나는 동안에는 가스 발라스트를 계속 열어 둡니다.
+3. 공정이 끝난 뒤에도 흡입구를 막은 채 최소 20~30분 더 돌려 남은 증기를 내보냅니다.
 
-앞서 설명한 27 mbar, 6.5×10⁻² mbar 같은 기준값은 실제로는 게이지 눈금을 직접 읽어 확인합니다. 스마텍이 취급하는 저진공 게이지 APG200(피라니 방식, 측정범위 대기압~5×10⁻⁴ mbar)은 이 정도 범위를 충분히 커버합니다.
+이 순서는 오일씰 펌프와 드라이 펌프 모두에 해당합니다.
 
-다만 앞서 다룬 "수소 설비 진공게이지" 글에서 설명해 드렸듯, 피라니 게이지는 가스 종류에 따라 표시값이 달라지는 방식입니다. 건조 공정 중에는 챔버 안 수증기 비중이 높아지므로, 질소 기준으로 교정된 게이지가 실제 수증기압을 그대로 정확히 보여주지 못할 수 있다는 점도 감안하셔야 합니다. 수증기 전용 보정계수 수치는 이번 조사에서 확인하지 못했습니다.
+[IMAGE: 수증기를 배기할 때 지킬 세 가지 운전 순서]
 
-[IMAGE: APG200 피라니 게이지로 압력 구간을 확인하는 방식]
+## 게이지 숫자를 그대로 믿어도 될까요?
 
-## 압력계만으로 판단하기 애매할 때
+스마텍이 취급하는 저진공 게이지 APG200(피라니 방식, 측정범위 대기압~5×10⁻⁴ mbar)은 건조 공정에서 보는 압력 범위를 충분히 덮습니다.
 
-장시간 진행하는 건조 공정에서는 응축수 수집기를 콘덴서에서 차단해 두는 방법도 쓰입니다. 이렇게 하면 냉각관에 남아 있던 응축막만 다시 증발하게 되는데, 이 재증발은 가스 발라스트 펌프 크기에 따라 30~60분 안에 끝난다는 것이 Leybold의 설명입니다. 이는 압력계만으로 건조 완료 여부를 판단하기 애매할 때 참고할 수 있는 보조적인 시간 기준이며, 모든 설비에 그대로 적용되는 고정값은 아닙니다.
+다만 피라니 게이지는 가스 종류에 따라 표시값이 달라집니다. 건조 중에는 챔버 안 기체의 대부분이 수증기라서, 질소 기준으로 맞춰진 게이지의 표시값이 실제 압력과 다를 수 있습니다. 같은 오븐에서 같은 게이지로 기록을 비교하시는 데는 문제가 없습니다. 압력의 절댓값이 중요한 공정이라면 가스 종류와 무관하게 측정하는 정전용량식 게이지(Edwards Barocel)를 쓰시는 편이 맞습니다.
 
-게이지를 챔버 어디에 다는지도 결과에 영향을 줍니다. 배기구 바로 앞에 달면 실제 챔버 안 압력보다 낮게 표시될 수 있고, 재료에서 먼 위치에 달면 국소적으로 압력이 높은 지점을 놓칠 수 있습니다. 여러 지점에 게이지를 달아 비교하기 어려운 소형 오븐이라면, 최소한 게이지 위치를 매번 동일하게 유지해 기록 간 비교가 가능하도록 하는 것이 중요합니다.
+[IMAGE: 피라니 게이지로 건조 압력을 읽을 때의 한계]
 
-## 압력이 안 내려가면 어떻게 봐야 할까요?
+게이지 위치도 결과에 영향을 줍니다. 배기구 바로 앞에 달면 실제 챔버 압력보다 낮게 표시될 수 있으니, 위치를 매번 같게 유지해 기록끼리 비교할 수 있게 해 주세요.
 
-건조 초반에는 압력이 빠르게 떨어지다가, 어느 시점부터 정체되는 구간이 생깁니다. 이 정체는 대개 재료 표면과 내부에서 계속 수분이 빠져나오고 있다는 신호이지, 펌프나 게이지의 이상이 아닌 경우가 많습니다. 문제는 이 정체가 정상적인 건조 진행인지, 아니면 누설이나 펌프 성능 저하 때문인지 구분하기 어렵다는 점입니다. 이럴 때는 같은 재료·같은 조건으로 이전에 돌렸던 압력 기록과 비교해 보시는 것이 가장 실질적인 판단 방법입니다. 처음 돌리시는 재료라면 시간대별 압력을 기록해 두시고, 다음번 같은 재료를 건조하실 때 비교 기준으로 삼으시는 것이 좋습니다.
+## 평소보다 압력이 안 내려갈 때
 
-## 정리해 보겠습니다
+압력이 머무는 것 자체는 정상입니다. 다만 평소보다 훨씬 오래 머문다면 같은 재료를 같은 조건으로 돌렸던 이전 기록과 비교해 보시기 바랍니다. 재료의 수분량이 달라졌는지부터 보시고, 빈 챔버로 돌려도 평소 도달압력이 나오지 않는다면 누설이나 펌프 쪽을 점검하실 차례입니다.
 
-- 건조는 배기·응축기 연결·우회 순서로 여러 단계를 거칩니다.
-- 압력이 특정 값(예: 27 mbar) 아래로 떨어지면 펌프 구성이 바뀌는 경우가 많습니다.
-- 피라니 게이지는 가스에 따라 표시값이 달라지므로 수증기 환경에서는 이 한계를 감안해야 합니다.
-- 압력이 정체되면 이전 기록과 비교하는 것이 실질적인 판단 방법입니다.
+재료를 가열하면 수증기압이 올라가면서 챔버 압력도 잠시 오를 수 있습니다. 가열을 시작한 시각과 압력이 변한 시각을 함께 적어 두시면 이 상승을 고장으로 오해하지 않으실 수 있습니다.
 
-진공 오븐을 운전 중이시라면 지금 어느 압력대에서 반응이 느려지는지, 그 지점에서 게이지 방식이 수증기를 정확히 읽고 있는지부터 확인해 보시는 것이 첫 단계입니다.
+진공 오븐을 운전 중이시라면 빈 챔버의 평소 도달압력, 건조 중 압력이 머무는 구간, 그 구간을 벗어나는 데 걸리는 시간부터 기록해 보시기 바랍니다.
 
-건조 공정 압력 구간별 게이지·펌프 구성 상담은 아래로 문의해 주세요.
+건조 공정에 맞는 펌프·게이지 구성 상담은 아래로 문의해 주세요.
 
 ---
 
@@ -60,4 +59,4 @@ info@smartechvacuum.com
 www.smartechvacuum.com
 유튜브 : https://www.youtube.com/@스마텍진공펌프
 
-#진공오븐 #진공건조 #진공도확인 #피라니게이지 #APG200 #가스발라스트 #루츠펌프 #진공펌프 #스마텍 #진공기술
+#진공오븐 #진공건조 #진공도확인 #피라니게이지 #APG200 #가스발라스트 #수증기압 #진공펌프 #스마텍 #진공기술

diff --git a/docs/memory/current-state.md b/docs/memory/current-state.md
@@ -13,7 +13,10 @@
 - **대표님 결정(10/9)**: 출처는 글당 1~2곳, **Edwards 자료만**. Leybold 등 타사 출처 인용 금지. `블로그/agents/writer.md` 출처 표시 절에 6개 항목으로 반영(도입부·설명문·FAQ 포함, 발행 전 횟수 보고).
 - 전체 재검토 결과: 발행 글 65편 중 타사 언급 5편 — 74(단위 환산)·80(수소 오일로터리, 네이버본만)·101(질소 벤트)·102(진공 포장기) 문장 수정, 105(9월 수리사례)는 수리한 펌프 모델명이라 그대로. DB(content·naverContent·faqSchema)와 원고 파일 모두 반영, 남은 타사 언급 0. 102는 타사 자료에서만 나온 "압축비 최대 10:1" 수치를 삭제.
 - 미발행 원고: `1012`·`1026` 해당 없음. `1015-수소설비-진공게이지` Pfeiffer 인용 제거·Edwards 출처 1곳만(check_quality 통과). **`1022-진공오븐-진공도확인`·`1029-태양광-오일로터리`는 전체가 Leybold 자료(특정 수치·SOGEVAC·POWERBOOST) 기반이라 문장 수정으로 안 되고 다시 써야 함 — 미착수.** `1019-진공유리-단열`은 미국 에너지부 인용 1곳 — 공공기관 자료 허용 여부 대표님 결정 대기.
-- 남은 일: 이미 네이버에 올라간 글(74·80·101·102·113 해당분)은 대표님이 네이버에서 직접 고쳐야 함. `1015` 원고의 "스마텍이 정전용량식 제품을 취급한다는 근거는 확인하지 못했다" 같은 어색한 문장은 대표님 확인 필요.
+- **대표님 추가 결정(10/9)**: ① 정부·기관 자료(미국 에너지부) 인용은 남김 ② 10/22·10/29는 다시 작성 ③ 스마텍은 정전용량식 게이지를 취급함(카탈로그 DB에 Edwards Barocel 7025 확인) ④ 이미 네이버에 올라간 글은 그대로 둠. writer.md 출처 절 6~8항에 반영.
+- `1015` 원고: "취급한다는 근거는 확인하지 못했다"류 3문장을 Barocel 안내·"매뉴얼에서 확인" 표현으로 수정(5a18cf4).
+- **`1022-진공오븐-진공도확인` 재작성 완료(미발행)**: Edwards 자료 2건(가스 발라스트·응축성 증기, 10/9 원문 확인)으로 뼈대 교체 — 물 포화 증기압 약 24 mbar@20℃, 워밍업 최대 60분, 발라스트 상시, 공정 후 20~30분. final·google·naver·faq·meta·shorts·marketing·research와 도식 3장(gen_images.py) 모두 교체, check_quality·쇼츠 검사 통과, 사진 중복 0. 대표님 원고·사진 확인 필요.
+- **`1029-태양광-오일로터리`는 주제 조정 필요(대표님 결정 대기)**: Edwards 태양광 페이지는 드라이펌프(iXM·iXH·iXL·GXS·EDS)와 STP만 제시하고 오일로터리를 권하지 않음 → "오일로터리 백킹펌프 선택"이라는 제목을 Edwards 근거로 뒷받침할 수 없음. 제안: "태양광 패널 생산 라인의 진공펌프 — 드라이펌프가 기본이 된 이유와 오일로터리를 쓸 때의 오일 선택"으로 방향 조정(E2M FX·PFPE 부분은 제품 표 근거로 유지).
 
 ## 2026-10-08 문의 경로 메일 구분 + 거래처 자동 저장 보완 (대표님 승인)
 

diff --git a/블로그/output/기술블로그/2026-10/1022-진공오븐-진공도확인/research.md b/블로그/output/기술블로그/2026-10/1022-진공오븐-진공도확인/research.md
@@ -35,3 +35,23 @@
 - ✅ [Leybold — How to select a vacuum pump for drying applications](https://www.leybold.com/en-in/knowledge/vacuum-fundamentals/vacuum-generation/pump-selection-for-drying-process)
 - ✅ 스마텍 내부 `data/Product_master_table/product_master_table.csv` (APG200 사양)
 - 관련 공개 글(참고용, 원리 반복 안 함): [진공에서는 물이 왜 낮은 온도에서 끓을까](https://www.smartechvacuum.com/blog/98)
+
+
+## 2026-10-09 재작성 근거 (출처 규칙 강화 — Edwards 자료만 공개 인용)
+
+기존 원고는 Leybold 건조 공정 자료(27 mbar·6.5e-2 mbar·60 mbar·0.65 mbar, 콘덴서 4단계)를 뼈대로 했다. 대표님 지시(글당 1~2곳·Edwards만·타사 인용 금지)로 그 수치와 단계 설명을 공개 글에서 모두 뺐다.
+
+✅ [Edwards — Why gas ballast is important on oil sealed rotary vane pumps?](https://www.edwardsvacuum.com/en/knowledge/applications/why-gas-ballast-is-important-on-oil-sealed-rotary-vane-pumps) (10/9 원문 확인)
+- "Water has a saturated vapour pressure of ~24 mbar (18 Torr) at 20 oC (70 oF), this is the lowest pressure the pump can attain until all the water is pumped away."
+- "If vapour is being pumped, the vacuum pump's ultimate pressure will be limited, not by ultimate pressure performance of the pump itself, but by the vapour pressure of the material being processed."
+- "Allowing water vapour to condense inside a pump will make the time to recover ultimate pressure much longer than if it remains in vapour phase." / "Condensed water vapour can also degrade an oil sealed rotary vane pump oil quite quickly."
+- "An oil sealed vacuum pump running gas ballast for long periods of time should be fitted with a device designed to return oil back into the oil box..."
+
+✅ [Edwards — How to pump condensable vapours?](https://www.edwardsvacuum.com/en-us/vacuum-pumps/knowledge/applications/how-to-pump-condensable-vapours) (10/9 원문 확인)
+- "it is important for the pump to warm-up to its normal operating temperature before exposing it to condensable vapour, this will typically take up to 60 minutes" / "'Blanking' the inlet of the pump, by closing a valve..."
+- "the ballast should generally be run all the time that vapour is being passed through the pump"
+- "It is recommended the pump is run for a minimum of 20 to 30 minutes after finishing the vacuum process"
+- "This applies to both oil sealed pumps and dry pumps"
+
+원문에 없는 내용(스마텍 설명으로 쓴 일반 원리): 재료 온도가 오르면 물의 증기압이 높아진다(수치 미기재), 압력 정체 구간을 벗어나는 흐름으로 건조 진행을 본다(위 두 문장에서 끌어낸 판단 기준), 게이지 위치·기록 비교.
+정전용량식 게이지(Edwards Barocel) 취급은 대표님 확인(10/9), 카탈로그 DB에 Barocel 7025 등록 확인.
